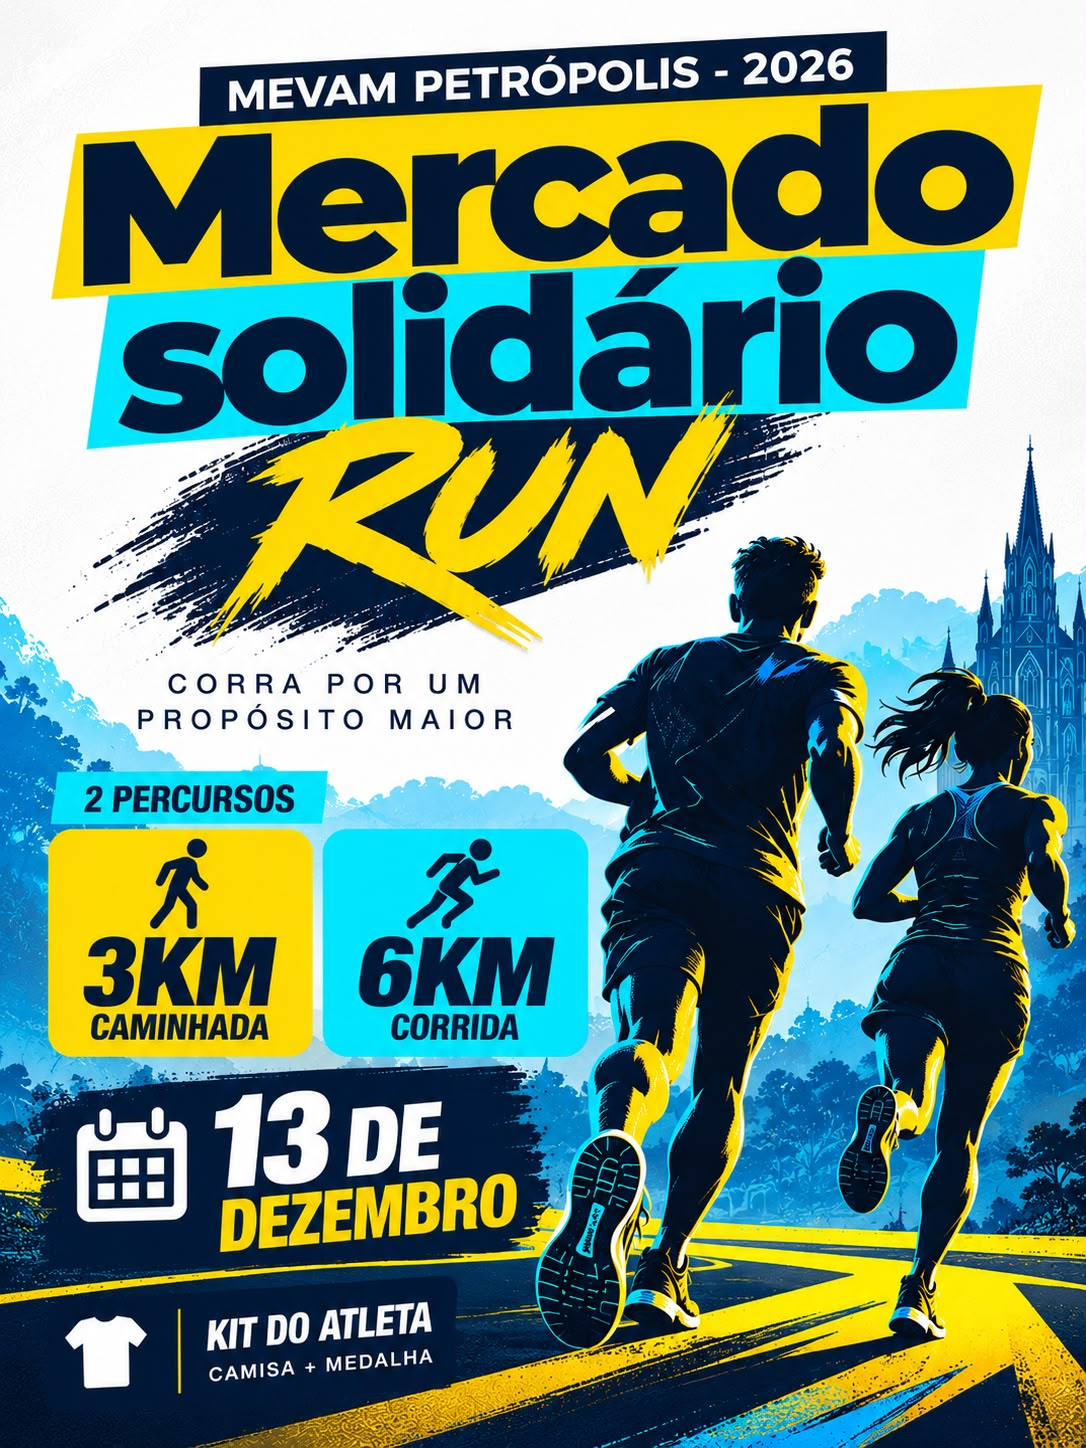
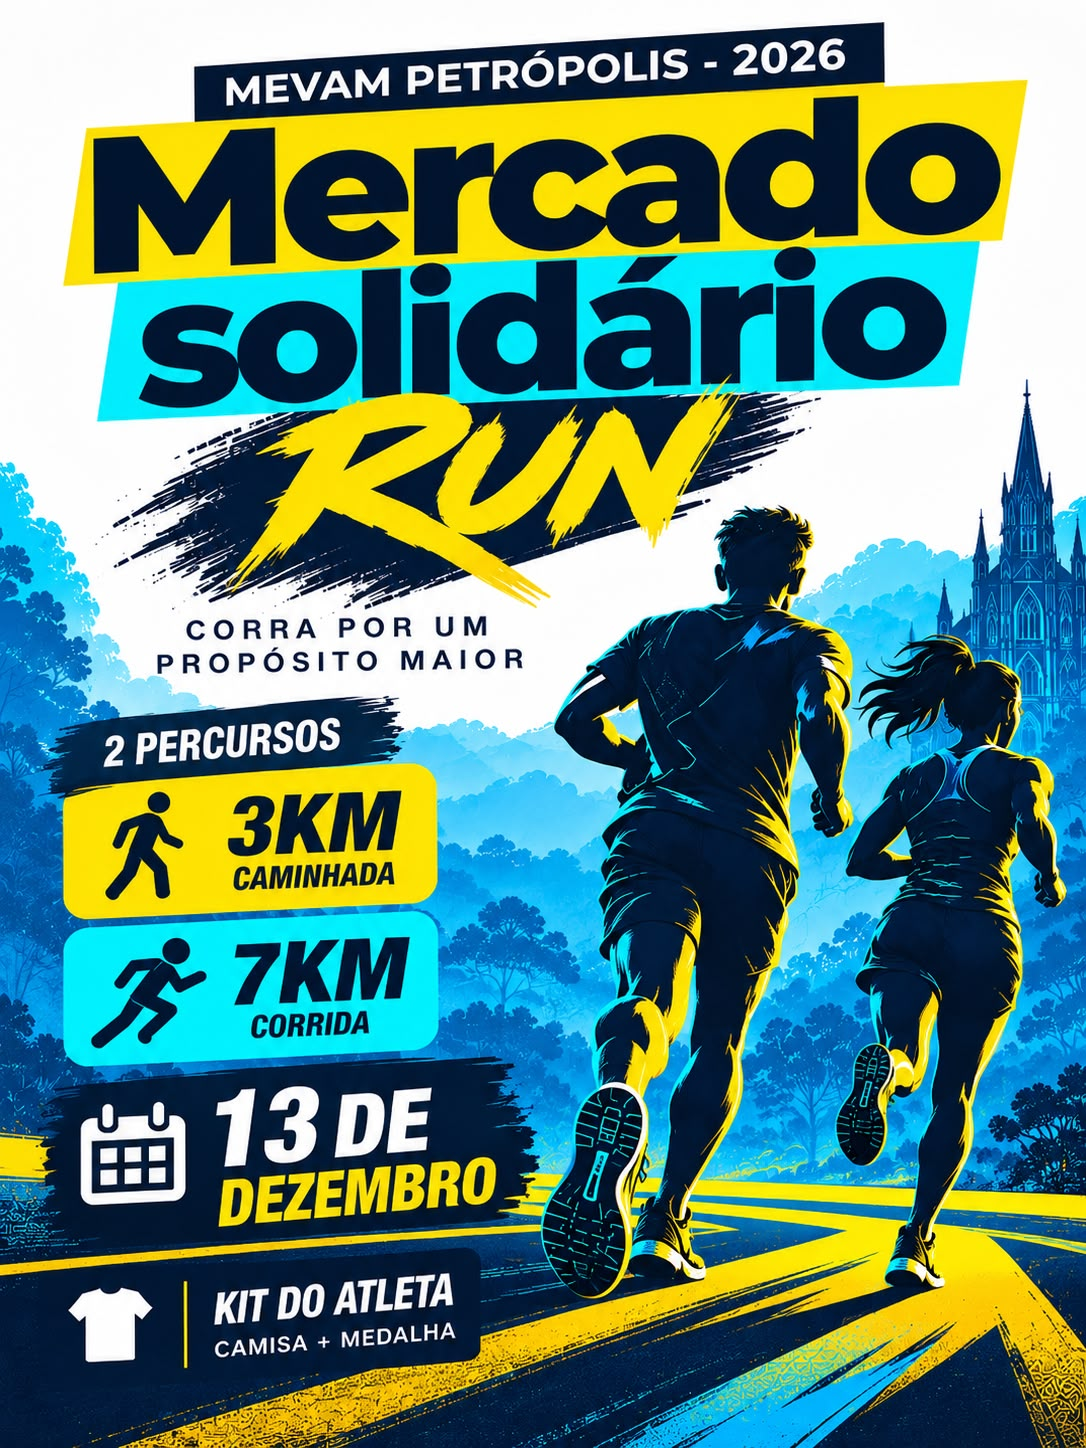
Tela de retorno pós-pagamento e novos cartazes 7KM
- /run/inscricao/:id mostra "Pagamento recebido!" após checkout MP
- Cartazes principal horizontal/vertical atualizados para 7KM

Generated with [Devin](https://devin.ai)

diff --git a/frontend/src/pages/RunPaymentReturnPage.tsx b/frontend/src/pages/RunPaymentReturnPage.tsx
@@ -1,0 +1,67 @@
+import { useNavigate } from 'react-router-dom'
+import {
+  AppBar, Box, Button, Container, Paper, Toolbar, Typography,
+} from '@mui/material'
+import CheckCircleIcon from '@mui/icons-material/CheckCircle'
+
+// Tela de retorno do checkout do Mercado Pago após pagar a inscrição.
+function RunPaymentReturnPage() {
+  const navigate = useNavigate()
+
+  return (
+    <Box component="main" sx={{ bgcolor: '#FBF9F1', minHeight: '100vh' }}>
+      <AppBar position="sticky" elevation={1} sx={{ bgcolor: '#1B2A6B' }}>
+        <Toolbar sx={{ gap: 2 }}>
+          <Box
+            component="img"
+            src="/logo-mercado-solidario.png"
+            alt="Logo do Mercado Solidário Petrópolis"
+            sx={{ height: { xs: 44, md: 56 }, width: 'auto', cursor: 'pointer' }}
+            onClick={() => navigate('/')}
+          />
+          <Typography sx={{ color: '#FFC42E', fontWeight: 800, letterSpacing: 1 }}>
+            MERCADO SOLIDÁRIO RUN
+          </Typography>
+          <Box sx={{ flexGrow: 1 }} />
+        </Toolbar>
+      </AppBar>
+
+      <Container maxWidth="xs" sx={{ py: 8 }}>
+        <Paper
+          elevation={0}
+          sx={{
+            p: { xs: 4, md: 5 }, textAlign: 'center', borderRadius: 3,
+            bgcolor: '#FFFFFF', border: '1px solid #E3E8EF',
+          }}
+        >
+          <CheckCircleIcon sx={{ fontSize: 64, color: '#2E9E5B', mb: 2 }} />
+          <Typography variant="h5" sx={{ fontWeight: 800, color: '#1B2A6B', mb: 2 }}>
+            Pagamento recebido! Obrigado por correr com a gente.
+          </Typography>
+          <Typography sx={{ color: '#44506B', mb: 1 }}>
+            Sua inscrição no Mercado Solidário Run está sendo confirmada.
+          </Typography>
+          <Typography sx={{ color: '#44506B', mb: 3 }}>
+            Assim que o pagamento for validado, você recebe um e-mail com o
+            <strong> QR code de retirada do kit</strong> (camisa + medalha) em anexo.
+            Apresente esse QR no dia da corrida para retirar seu kit.
+          </Typography>
+          <Typography sx={{ color: '#44506B', mb: 3 }}>
+            Se o pagamento foi por PIX e ainda estiver aguardando confirmação,
+            a equipe do projeto valida e libera seu kit normalmente —
+            é só apresentar o comprovante na retirada.
+          </Typography>
+          <Button
+            variant="contained"
+            onClick={() => navigate('/run')}
+            sx={{ fontWeight: 700, bgcolor: '#1B2A6B', '&:hover': { bgcolor: '#2E4FA3' } }}
+          >
+            Voltar para a corrida
+          </Button>
+        </Paper>
+      </Container>
+    </Box>
+  )
+}
+
+export default RunPaymentReturnPage

diff --git a/frontend/src/App.tsx b/frontend/src/App.tsx
@@ -12,6 +12,7 @@ import LandingPage from './pages/LandingPage'
 import ConhecaPage from './pages/ConhecaPage'
 import RumPage from './pages/RumPage'
 import RunVerifyPage from './pages/RunVerifyPage'
+import RunPaymentReturnPage from './pages/RunPaymentReturnPage'
 import RunRegistrationsPage from './pages/RunRegistrationsPage'
 import RunKitScanPage from './pages/RunKitScanPage'
 import LoginPage from './pages/LoginPage'
@@ -105,6 +106,7 @@ function AppContent() {
         <Route path="/conheca" element={<ConhecaPage />} />
         <Route path="/run" element={<RumPage />} />
         <Route path="/run/verificar/:code" element={<RunVerifyPage />} />
+        <Route path="/run/inscricao/:id" element={<RunPaymentReturnPage />} />
         <Route path="/rum/*" element={<RumRedirect />} />
         <Route path="/donate" element={<Navigate to="/doacao" replace />} />
         <Route path="/doacao" element={<PublicDonationPage />} />
